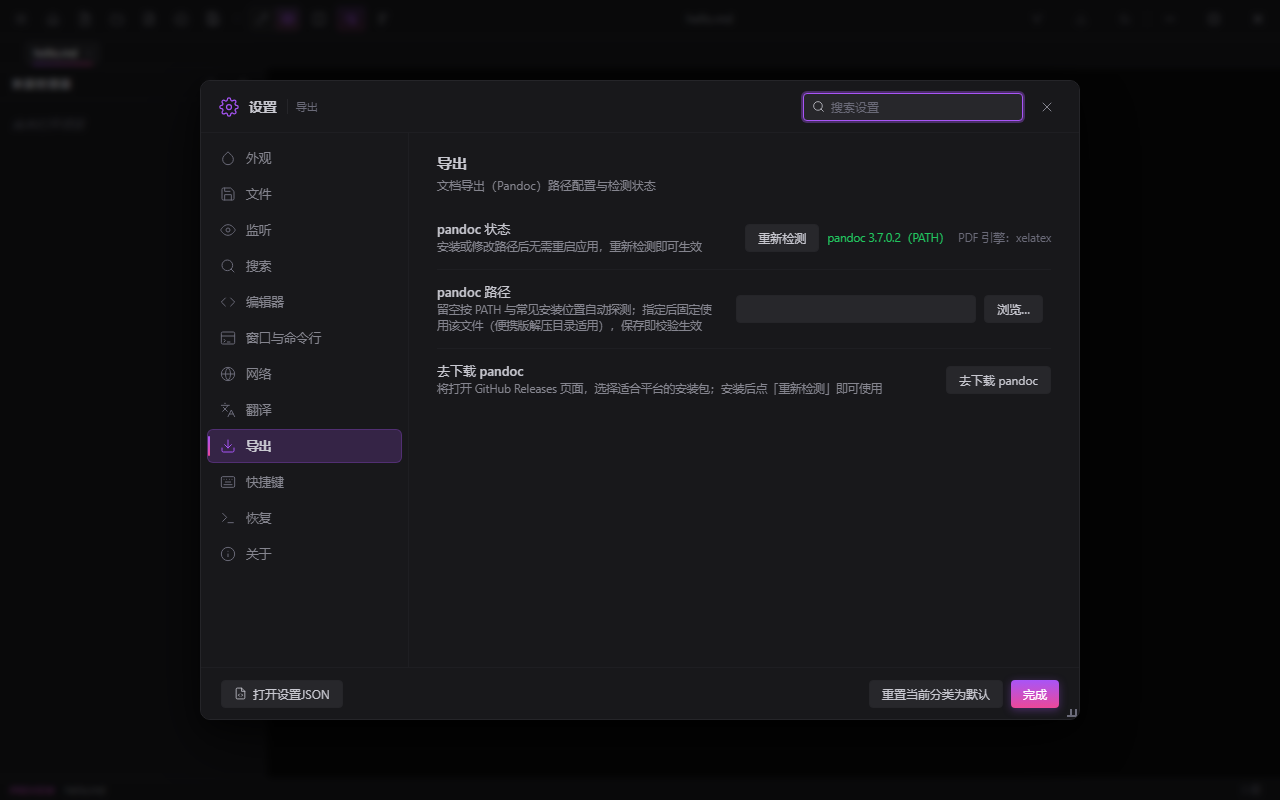
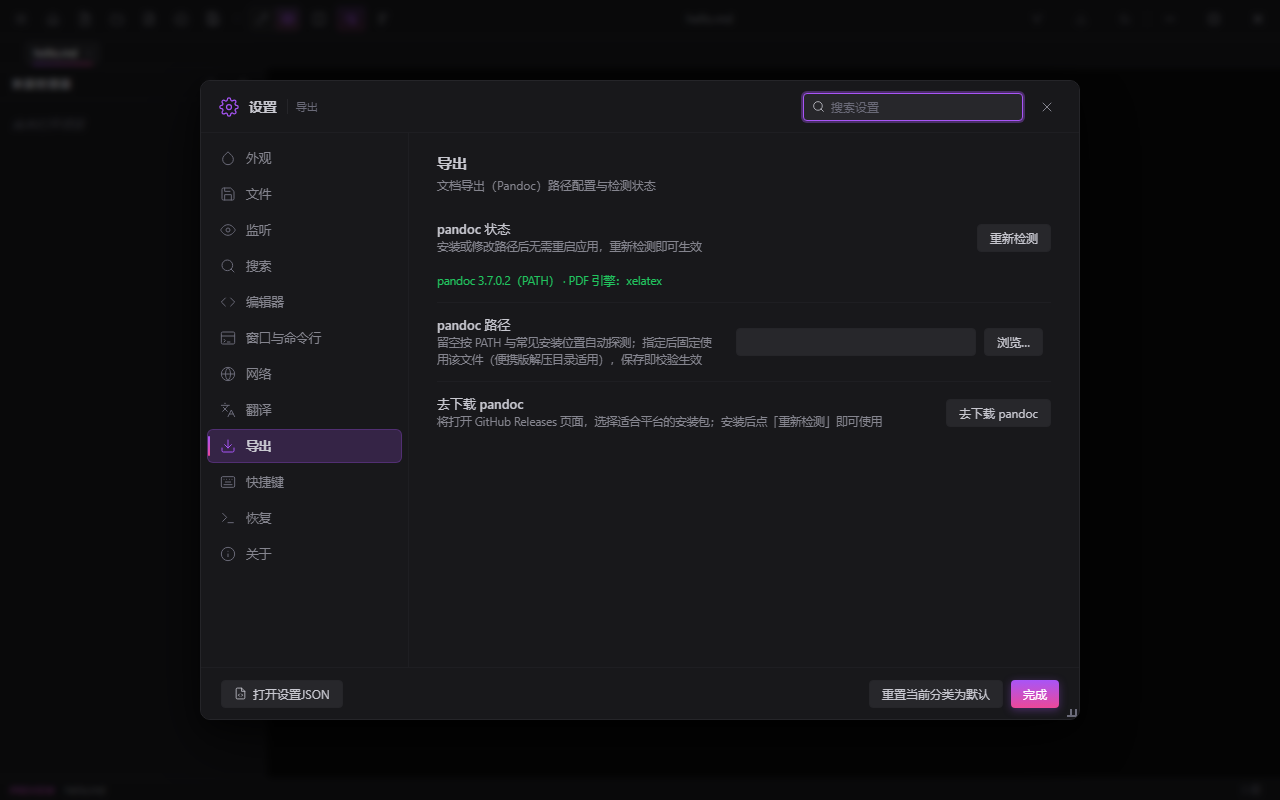
fix(settings): pandoc 状态行检测结果导致文字竖排——结果区移出内容宽列
根因：.setting-row 是两列 flex（.setting-info flex:1 + min-width:0 可无限
压缩；.setting-control flex-shrink:0 按内容撑开），状态行把「重新检测」
按钮 + 版本结果 + 长 PDF 引擎文案三个元素并排放进右列，右列占据全部内容
宽度后左列被压到一个汉字宽，中文逐字换行呈竖排。v0.9.0 未暴露只因当时
结果文案短、空间够分。

修复（方案 A，两段式）：右列仅保留「重新检测」按钮；版本 + PDF 引擎
合并为一条结果（· 分隔）移入 flex-basis:100% 的全宽结果区，自然折行，
不受右列宽度约束。scoped CSS 只针对 .setting-row-pandoc-status，不动
全局行布局；结果文本在全宽下由全局 break-all 改为 normal + overflow-
wrap:anywhere（中文可断、英文单词不撕裂）。

代理测试/翻译测试行为同构（长消息会复现），按最小化原则本次不动。

diff --git a/src/frontend/settings.js b/src/frontend/settings.js
@@ -871,7 +871,9 @@
     }
   }
 
-  // 状态行：检测中 / 版本+来源+PDF 引擎 / 未检测到（与代理测试行同款结果样式）
+  // 状态行两段式：左列标签+说明、右列仅「重新检测」按钮；检测结果独占整行。
+  // .setting-control 是 flex-shrink:0 的内容宽列，长结果文本放里面会把左列
+  // 挤成一字宽竖排（竖排 bug 根因），故移到 flex-basis:100% 的全宽结果区。
   function renderPandocStatusRow() {
     var detecting = Boolean(state.pandocDetecting);
     var res = state.pandocDetect;
@@ -901,8 +903,11 @@
       + '</div>'
       + '<div class="setting-control">'
       + '<button type="button" class="btn" id="setting-pandoc-redetect"' + (detecting ? ' disabled' : '') + '>' + esc(t('settings.pandoc.redetect')) + '</button>'
-      + '<div class="' + resClass + '" id="setting-pandoc-status-result">' + esc(statusText) + '</div>'
-      + (pdfText ? '<div class="setting-proxy-result">' + esc(t('settings.pandoc.pdfEngine') + '：' + pdfText) + '</div>' : '')
+      + '</div>'
+      + '<div class="pandoc-status-results">'
+      + '<div class="' + resClass + '" id="setting-pandoc-status-result">' + esc(statusText)
+      + (pdfText ? ' · ' + esc(t('settings.pandoc.pdfEngine') + '：' + pdfText) : '')
+      + '</div>'
       + '</div>'
       + '</div>';
   }

diff --git a/src/frontend/settings.css b/src/frontend/settings.css
@@ -986,6 +986,21 @@
   opacity: 0.7;
 }
 
+/* ── 导出分类：pandoc 状态行（FEAT-006/007）——按钮列 + 全宽结果区两段式 ──
+ * .setting-control 是 flex-shrink:0 的内容宽列：结果文本放里面会把左侧标签
+ * 列挤压成一字宽（竖排 bug 根因），因此结果区独立占整行（flex-basis:100%）
+ * 自然折行，不受右列宽度约束。 */
+.setting-row-pandoc-status { flex-wrap: wrap; }
+.pandoc-status-results {
+  flex-basis: 100%;
+  display: block;
+}
+/* 全宽展示下换用自然断行：中文可断、英文单词不撕裂（覆盖全局 break-all） */
+.setting-row-pandoc-status .setting-proxy-result {
+  word-break: normal;
+  overflow-wrap: anywhere;
+}
+
 .setting-hint {
   display: block;
   margin-top: 4px;
